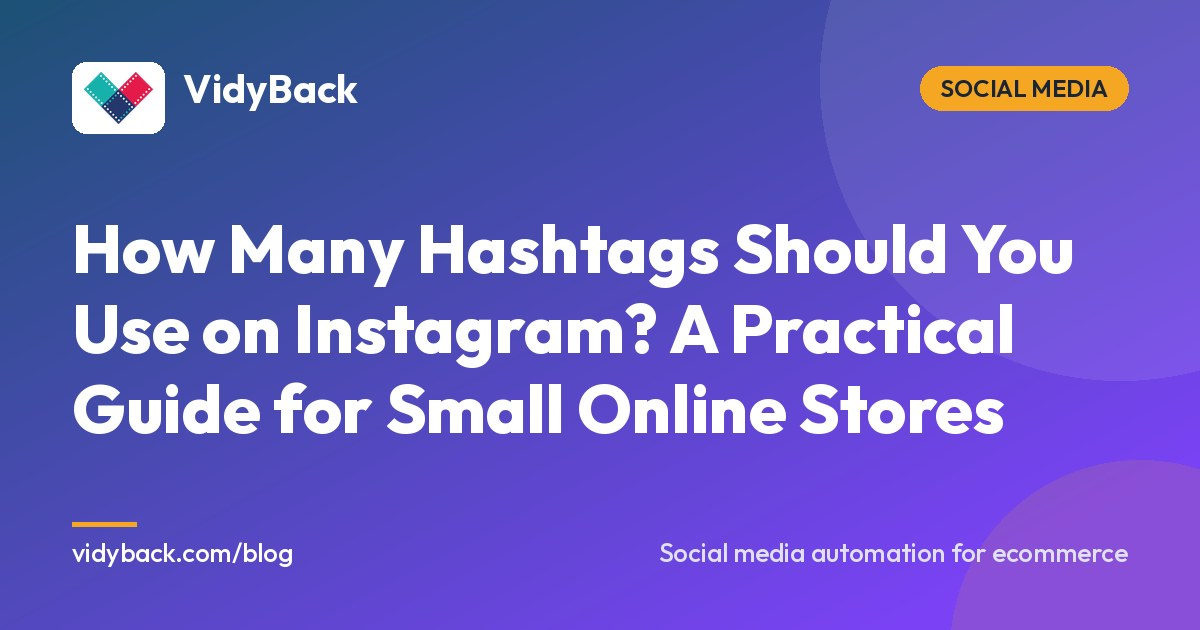
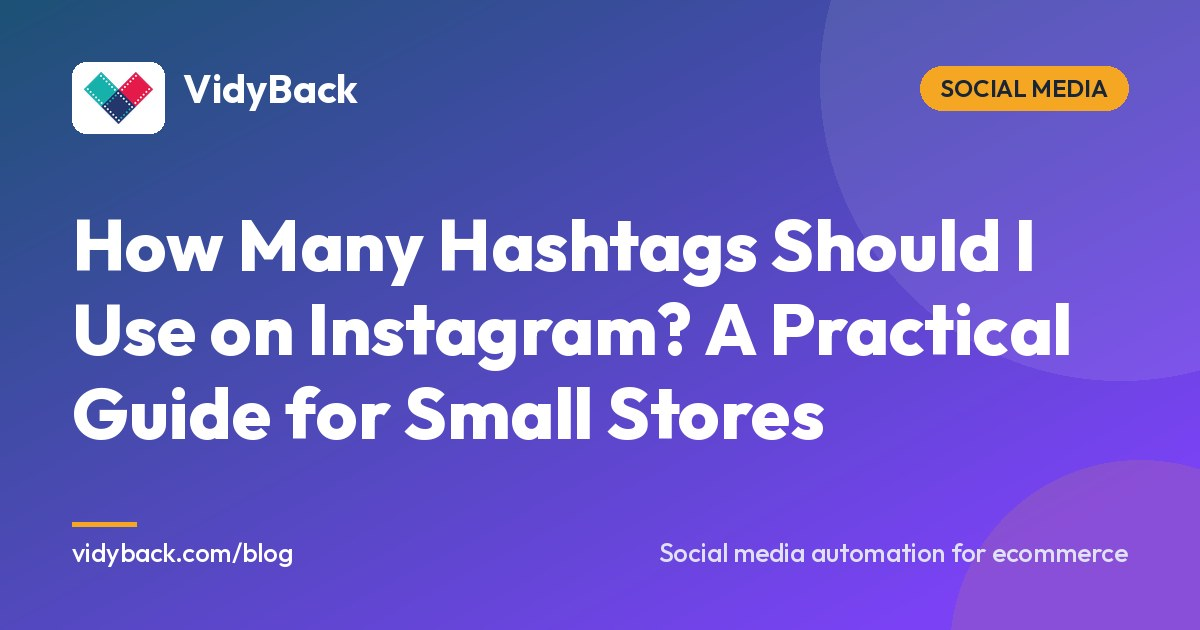
Homepage AI video title; strengthen the Instagram hashtags post
Homepage (GrowJin: meta description 187 chars; competitor keyword gap
vs Minta's 'AI Video Marketing'):
- Title 'AI Video Marketing for Ecommerce Stores | VidyBack'
- 158-char description leading with AI video posts; og/twitter match

How many hashtags post (GrowJin: ~180 impressions/month for 'how many
hashtags should i use on instagram' at ~#13):
- Title/H1/headline use the exact query; title under 60 chars
- 'Quick answer' box at the top (3 to 5 relevant hashtags)
- New FAQ section + FAQPage JSON-LD (allowed count incl. the Dec 2025
  5-hashtag rollout, Reels, caption vs first comment, do they help)
- Blog card title and share image updated; dateModified bumped
- Linked from the Hashtag Counter's related reading

Claude-Session: https://claude.ai/code/session_01NiyN4yC9AfEkLNY8szSKwu

Changed region(s): [[0.0617, 0.3317, 0.8942, 0.6032], [0.0617, 0.6032, 0.8325, 0.7238]]

diff --git a/how-many-hashtags-to-use-on-instagram.html b/how-many-hashtags-to-use-on-instagram.html
@@ -18,8 +18,8 @@
     <link rel="preconnect" href="https://fonts.gstatic.com" crossorigin>
     <link rel="preload" as="style" href="https://fonts.googleapis.com/css2?family=Inter:wght@300;400;500;600;700&family=Outfit:wght@400;500;600;700;800&display=swap" onload="this.onload=null;this.rel='stylesheet'">
     <noscript><link rel="stylesheet" href="https://fonts.googleapis.com/css2?family=Inter:wght@300;400;500;600;700&family=Outfit:wght@400;500;600;700;800&display=swap"></noscript>
-    <meta name="description" content="Wondering how many hashtags to use on Instagram? Here is a simple 3 to 5 tag approach for small online stores, with examples and a free counter.">
-    <title>How Many Hashtags Should You Use on Instagram? A Practical Guide for Small Online Stores | VidyBack</title>
+    <meta name="description" content="Use 3 to 5 relevant hashtags per Instagram post. Here is why, how to pick them for a product, where to put them, and a free counter to check yours.">
+    <title>How Many Hashtags Should I Use on Instagram? (3 to 5)</title>
 
     <!-- Canonical URL -->
     <link rel="canonical" href="https://www.vidyback.com/how-many-hashtags-to-use-on-instagram">
@@ -34,23 +34,23 @@
     <meta property="og:image" content="https://www.vidyback.com/images/og/how-many-hashtags-to-use-on-instagram.jpg">
     <meta property="og:image:width" content="1200">
     <meta property="og:image:height" content="630">
-    <meta property="og:image:alt" content="How Many Hashtags Should You Use on Instagram? A Practical Guide for Small Online Stores">
-    <meta property="og:title" content="How Many Hashtags Should You Use on Instagram? A Practical Guide for Small Online Stores">
-    <meta property="og:description" content="Wondering how many hashtags to use on Instagram? Here is a simple 3 to 5 tag approach for small online stores, with examples and a free counter.">
+    <meta property="og:image:alt" content="How Many Hashtags Should I Use on Instagram? A Practical Guide for Small Stores">
+    <meta property="og:title" content="How Many Hashtags Should I Use on Instagram? (3 to 5)">
+    <meta property="og:description" content="Use 3 to 5 relevant hashtags per Instagram post. Here is why, how to pick them for a product, where to put them, and a free counter to check yours.">
     <meta property="article:published_time" content="2026-10-05T00:00:00Z">
-    <meta property="article:modified_time" content="2026-10-05T00:00:00Z">
+    <meta property="article:modified_time" content="2026-11-26T00:00:00Z">
 
     <!-- BlogPosting Schema Markup -->
     <script type="application/ld+json">
     {
         "@context": "https://schema.org",
         "@type": "BlogPosting",
-        "headline": "How Many Hashtags Should You Use on Instagram? A Practical Guide for Small Online Stores",
+        "headline": "How Many Hashtags Should I Use on Instagram? A Practical Guide for Small Stores",
         "image": "https://www.vidyback.com/images/og/how-many-hashtags-to-use-on-instagram.jpg",
-        "description": "Wondering how many hashtags to use on Instagram? Here is a simple 3 to 5 tag approach for small online stores, with examples and a free counter.",
+        "description": "Use 3 to 5 relevant hashtags per Instagram post. Here is why, how to pick them for a product, where to put them, and a free counter to check yours.",
         "url": "https://www.vidyback.com/how-many-hashtags-to-use-on-instagram",
         "datePublished": "2026-10-05",
-        "dateModified": "2026-10-05",
+        "dateModified": "2026-11-26",
         "author": { "@type": "Organization", "name": "VidyBack" },
         "publisher": {
             "@type": "Organization",
@@ -59,11 +59,59 @@
         }
     }
     </script>
+    <script type="application/ld+json">
+    {
+        "@context": "https://schema.org",
+        "@type": "FAQPage",
+        "mainEntity": [
+            {
+                "@type": "Question",
+                "name": "How many hashtags should I use on Instagram?",
+                "acceptedAnswer": {
+                    "@type": "Answer",
+                    "text": "For a small online store, 3 to 5 relevant hashtags per post or Reel. A few specific tags tell Instagram what the post is about better than a long list of loosely related ones, and they keep your caption readable."
+                }
+            },
+            {
+                "@type": "Question",
+                "name": "How many hashtags are allowed on Instagram?",
+                "acceptedAnswer": {
+                    "@type": "Answer",
+                    "text": "Instagram has long allowed up to 30 hashtags per post. In December 2025 it announced it would gradually limit posts and Reels to 5, so your account may already be capped at 5. Either way, 3 to 5 is the range to aim for."
+                }
+            },
+            {
+                "@type": "Question",
+                "name": "How many hashtags should I use on Instagram Reels?",
+                "acceptedAnswer": {
+                    "@type": "Answer",
+                    "text": "The same 3 to 5. Reels get found mostly through the video itself and the words in your caption, so a few accurate tags are plenty."
+                }
+            },
+            {
+                "@type": "Question",
+                "name": "Should hashtags go in the caption or the first comment?",
+                "acceptedAnswer": {
+                    "@type": "Answer",
+                    "text": "Both work. What matters more is that the caption reads like a person wrote it: what the product is, who it's for and what to do next. Put the hashtags at the end so they don't push your message out of view."
+                }
+            },
+            {
+                "@type": "Question",
+                "name": "Do hashtags still help on Instagram?",
+                "acceptedAnswer": {
+                    "@type": "Answer",
+                    "text": "Yes, but less than they used to. They act as a label that helps Instagram understand your post, while search leans more on the words in your caption and profile. Relevant tags help; extra tags don't add reach."
+                }
+            }
+        ]
+    }
+    </script>
     <meta property="og:url" content="https://www.vidyback.com/how-many-hashtags-to-use-on-instagram">
     <meta name="twitter:card" content="summary_large_image">
     <meta name="twitter:site" content="@vidyback">
-    <meta name="twitter:title" content="How Many Hashtags Should You Use on Instagram? A Practical Guide for Small Online Stores">
-    <meta name="twitter:description" content="Wondering how many hashtags to use on Instagram? Here is a simple 3 to 5 tag approach for small online stores, with examples and a free counter.">
+    <meta name="twitter:title" content="How Many Hashtags Should I Use on Instagram? (3 to 5)">
+    <meta name="twitter:description" content="Use 3 to 5 relevant hashtags per Instagram post. Here is why, how to pick them for a product, where to put them, and a free counter to check yours.">
     <meta name="twitter:image" content="https://www.vidyback.com/images/og/how-many-hashtags-to-use-on-instagram.jpg">
     <!-- Google Analytics -->
     <script async src="https://www.googletagmanager.com/gtag/js?id=G-P738P31V8L"></script>
@@ -120,6 +168,8 @@ header .container{display:flex;align-items:center;justify-content:space-between;
 .post-body ol{margin:0 0 24px 24px;}
 .post-body ol li{font-size:1.05rem;color:var(--color-text-main);line-height:1.8;margin-bottom:10px;list-style:decimal;padding-left:4px;}
 .post-body strong{color:var(--color-text-dark);font-weight:700;}
+.quick-answer{background:rgba(16,185,129,0.08);border:1px solid rgba(16,185,129,0.3);border-radius:var(--border-radius-md);padding:18px 22px;margin:0 0 32px;}
+.quick-answer p{margin:0;}
 .callout{background:rgba(122,66,244,0.06);border-left:4px solid var(--color-purple);border-radius:0 var(--border-radius-sm) var(--border-radius-sm) 0;padding:20px 24px;margin:32px 0;}
 .callout p{margin:0;font-size:1rem;color:var(--color-text-main);font-style:italic;}
 .post-img{width:100%;border-radius:var(--border-radius-md);margin:36px 0;box-shadow:var(--shadow-sm);}
@@ -204,7 +254,7 @@ footer h4,footer .logo{color:#fff;}
             <a href="blog" class="post-back"><i class="fa-solid fa-arrow-left"></i> Back to Blog</a>
             <br>
             <span class="post-cat-badge">Social Media</span>
-            <h1>How Many Hashtags Should You Use on Instagram? A Practical Guide for Small Online Stores</h1>
+            <h1>How Many Hashtags Should I Use on Instagram? A Practical Guide for Small Stores</h1>
             <div class="post-meta">
                 <span><i class="fa-regular fa-calendar"></i> October 5, 2026</span>
                 <span><i class="fa-regular fa-clock"></i> 4 min read</span>
@@ -218,6 +268,10 @@ footer h4,footer .logo{color:#fff;}
         <img class="post-cover" src="https://images.pexels.com/photos/20433798/pexels-photo-20433798.jpeg?auto=compress&cs=tinysrgb&w=1200" alt="Hands filming colorful product jars with a smartphone">
 
         <article class="post-body">
+            <div class="quick-answer">
+                <p><strong>Quick answer:</strong> use <strong>3 to 5 relevant hashtags</strong> per Instagram post or Reel. Pick tags that describe the product and the people who'd buy it, put them at the end of your caption, and skip giant generic tags like #love or #instagood.</p>
+            </div>
+
             <p>You post a new product photo, and then you stall on the hashtags. One article told you to use 30. Another said three. A third said hashtags don't matter anymore. You end up pasting the same block of 25 tags from last week's post, feeling vaguely like you're doing it wrong, and hitting publish anyway.</p>
 
             <p>If you've ever wondered how many hashtags to use on Instagram for a small online store, you're in good company. The advice online is old, contradictory, and mostly written for influencers, not for someone listing candles or leather wallets between packing orders.</p>
@@ -269,6 +323,28 @@ footer h4,footer .logo{color:#fff;}
             <h2>A Quick Way to Check Your Count</h2>
 
             <p>If you tend to lose track while editing a caption, run it through our free <a href="free-online-hashtag-counter">Hashtag Counter</a>. Paste in your draft and it tells you how many tags you've used, so you can trim back to five before you post. It takes a few seconds and saves you from the 28-tag habit creeping back in.</p>
+
+            <h2>Instagram Hashtag FAQ</h2>
+
+            <h3>How many hashtags should I use on Instagram?</h3>
+
+            <p>For a small online store, 3 to 5 relevant hashtags per post or Reel. A few specific tags tell Instagram what the post is about better than a long list of loosely related ones, and they keep your caption readable.</p>
+
+            <h3>How many hashtags are allowed on Instagram?</h3>
+
+            <p>Instagram has long allowed up to 30 hashtags per post. In December 2025 it announced it would gradually limit posts and Reels to 5, so your account may already be capped at 5. Either way, 3 to 5 is the range to aim for.</p>
+
+            <h3>How many hashtags should I use on Instagram Reels?</h3>
+
+            <p>The same 3 to 5. Reels get found mostly through the video itself and the words in your caption, so a few accurate tags are plenty.</p>
+
+            <h3>Should hashtags go in the caption or the first comment?</h3>
+
+            <p>Both work. What matters more is that the caption reads like a person wrote it: what the product is, who it's for and what to do next. Put the hashtags at the end so they don't push your message out of view.</p>
+
+            <h3>Do hashtags still help on Instagram?</h3>
+
+            <p>Yes, but less than they used to. They act as a label that helps Instagram understand your post, while search leans more on the words in your caption and profile. Relevant tags help; extra tags don't add reach.</p>
 
             <h2>Why Consistency Beats a Perfect Tag List</h2>
 

diff --git a/index.html b/index.html
@@ -18,22 +18,22 @@
     <link rel="preconnect" href="https://fonts.gstatic.com" crossorigin>
     <link rel="preload" as="style" href="https://fonts.googleapis.com/css2?family=Inter:wght@300;400;500;600;700&family=Outfit:wght@400;500;600;700;800&display=swap" onload="this.onload=null;this.rel='stylesheet'">
     <noscript><link rel="stylesheet" href="https://fonts.googleapis.com/css2?family=Inter:wght@300;400;500;600;700&family=Outfit:wght@400;500;600;700;800&display=swap"></noscript>
-    <meta name="description" content="Social media automation for ecommerce. Connect Shopify, Wix, Etsy, Ecwid & Jumpseller. Make posts from templates with AI captions & schedule to Instagram, TikTok & YouTube. 7-day free trial.">
+    <meta name="description" content="Turn your products into AI video posts and Reels with ready-made templates and AI captions. Connect Shopify, Wix, Etsy, Ecwid or Jumpseller. 7-day free trial.">
     <meta name="keywords" content="AI video creator, ecommerce social media, social media autopilot, automated product posts, Shopify video generator, Etsy video generator, Wix video generator">
     <meta property="og:type" content="website">
     <meta property="og:site_name" content="VidyBack">
     <meta property="og:image" content="https://www.vidyback.com/images/thumbnail.jpg">
     <meta property="og:image:width" content="640">
     <meta property="og:image:height" content="360">
-    <meta property="og:title" content="Social Media Automation for Ecommerce Stores | VidyBack">
-    <meta property="og:description" content="Turn your Shopify, Wix, Etsy, Ecwid or Jumpseller catalog into Reels & posts with templates and AI captions. Auto-post to Instagram, Facebook, TikTok & YouTube for free.">
+    <meta property="og:title" content="AI Video Marketing for Ecommerce Stores | VidyBack">
+    <meta property="og:description" content="Turn your Shopify, Wix, Etsy, Ecwid or Jumpseller products into AI video posts and Reels, then schedule them to Instagram, TikTok, Facebook, YouTube and Pinterest.">
     <meta property="og:url" content="https://www.vidyback.com/">
     <meta name="twitter:card" content="summary_large_image">
     <meta name="twitter:site" content="@vidyback">
-    <meta name="twitter:title" content="Social Media Automation for Ecommerce Stores | VidyBack">
-    <meta name="twitter:description" content="Turn your Shopify, Wix, Etsy, Ecwid or Jumpseller catalog into Reels & posts with templates and AI captions. Auto-post to Instagram, Facebook, TikTok & YouTube for free.">
+    <meta name="twitter:title" content="AI Video Marketing for Ecommerce Stores | VidyBack">
+    <meta name="twitter:description" content="Turn your Shopify, Wix, Etsy, Ecwid or Jumpseller products into AI video posts and Reels, then schedule them to Instagram, TikTok, Facebook, YouTube and Pinterest.">
     <meta name="twitter:image" content="https://www.vidyback.com/images/thumbnail.jpg">
-    <title>Social Media Automation for Ecommerce Stores | VidyBack</title>
+    <title>AI Video Marketing for Ecommerce Stores | VidyBack</title>
 
     <!-- Canonical URL -->
     <link rel="canonical" href="https://www.vidyback.com/">

diff --git a/free-online-hashtag-counter.html b/free-online-hashtag-counter.html
@@ -561,7 +561,7 @@
                 <p>A fashion store might have a <strong>dresses set</strong> (#maxidress, #summerdress, #dressstyle &hellip;), a <strong>footwear set</strong> (#shoelover, #sneakerhead, #streetstyle &hellip;), and a <strong>seasonal set</strong> that changes each month. Mix 3&ndash;4 tags from each relevant set per post, and always include 1&ndash;2 niche-specific tags (e.g. your city or a micro-community) that have lower volume but higher engagement rates from actually interested followers.</p>
                 <p>Keep your total set small enough that you genuinely cycle through it - 4&ndash;6 sets of 10&ndash;15 tags each is more than sufficient for most stores. This keeps your hashtag usage varied, relevant, and algorithm-friendly.</p>
 
-                <p><strong>Related reading:</strong> <a href="instagram-tiktok-algorithm-2026-small-ecommerce" style="color:var(--color-purple);font-weight:600;">Instagram &amp; TikTok Algorithm Changes 2026</a> covers what else changed beyond hashtags, and <a href="why-posting-5-7-times-a-week-beats-posting-once" style="color:var(--color-purple);font-weight:600;">Why Posting 5-7 Times a Week Beats Posting Once</a> looks at posting frequency, the other half of staying visible.</p>
+                <p><strong>Related reading:</strong> <a href="how-many-hashtags-to-use-on-instagram" style="color:var(--color-purple);font-weight:600;">How Many Hashtags Should I Use on Instagram?</a> explains why 3 to 5 relevant tags beat a long list. <a href="instagram-tiktok-algorithm-2026-small-ecommerce" style="color:var(--color-purple);font-weight:600;">Instagram &amp; TikTok Algorithm Changes 2026</a> covers what else changed beyond hashtags, and <a href="why-posting-5-7-times-a-week-beats-posting-once" style="color:var(--color-purple);font-weight:600;">Why Posting 5-7 Times a Week Beats Posting Once</a> looks at posting frequency, the other half of staying visible.</p>
 
                 <div class="faq-block">
                     <h2>Frequently Asked Questions</h2>

diff --git a/blog.html b/blog.html
@@ -745,7 +745,7 @@ footer h4,footer .logo{color:#fff;}
                             <span>·</span>
                             <span>By VidyBack Team</span>
                         </div>
-                        <h3>How Many Hashtags Should You Use on Instagram? A Practical Guide for Small Online Stores</h3>
+                        <h3>How Many Hashtags Should I Use on Instagram? A Practical Guide for Small Stores</h3>
                         <p>Thirty tags or three? Here's a simple 3 to 5 hashtag approach for small online stores, with examples of how to choose them for a real product.</p>
                     </div>
                     <div class="blog-card-footer">
